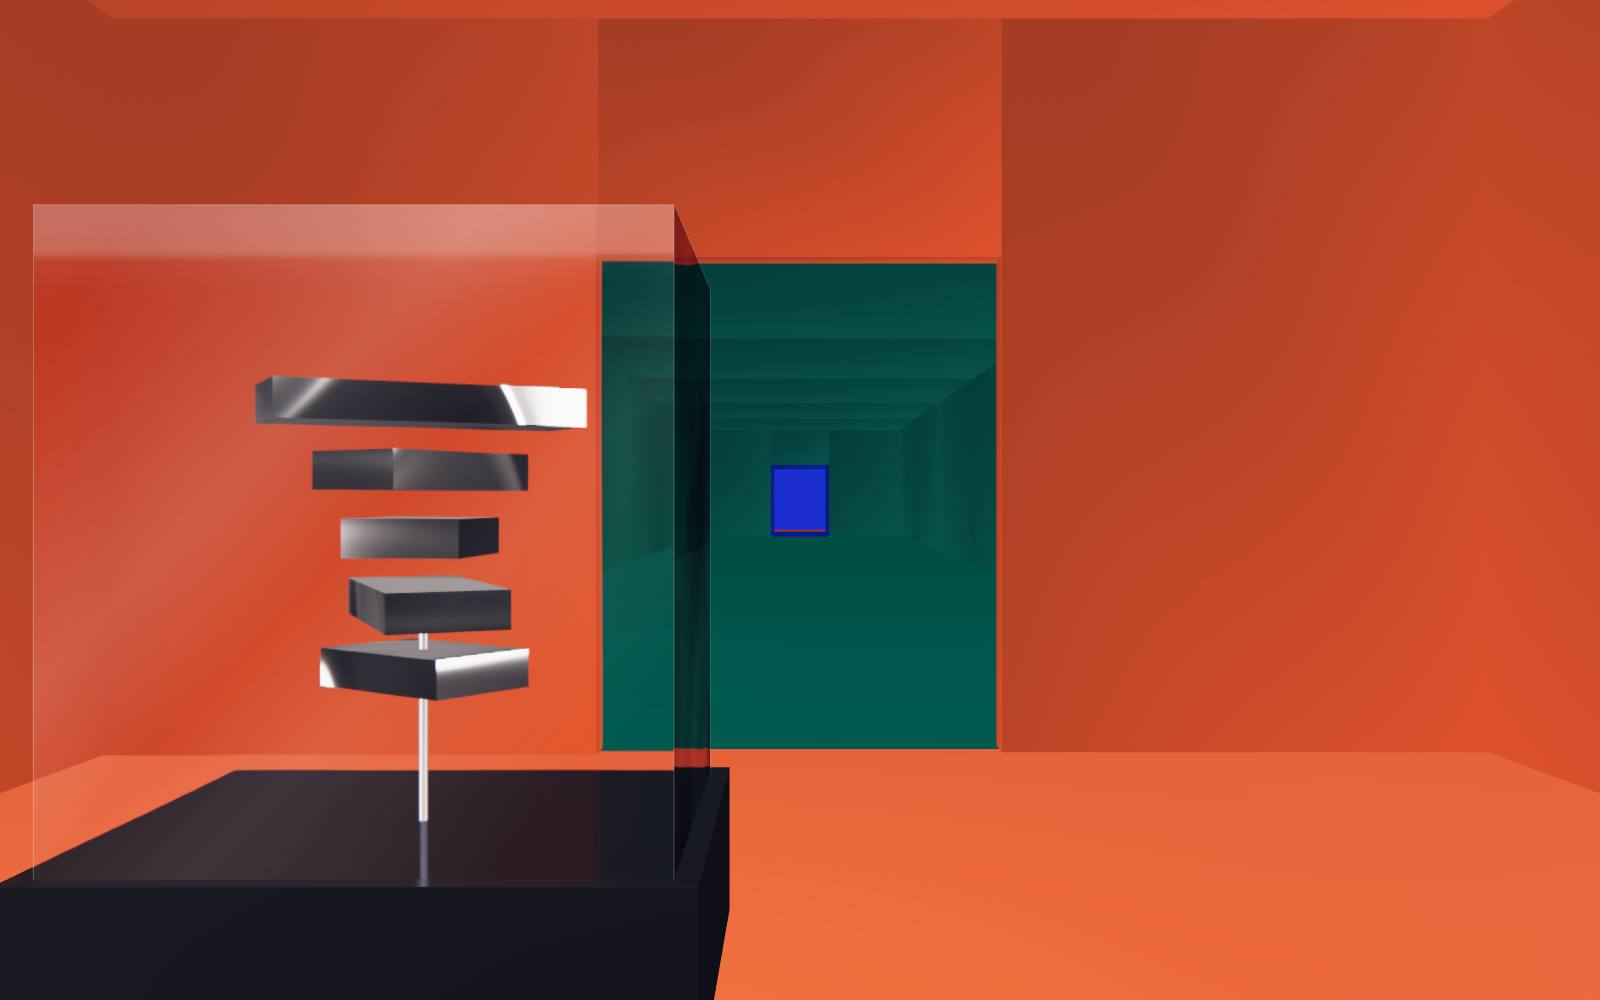
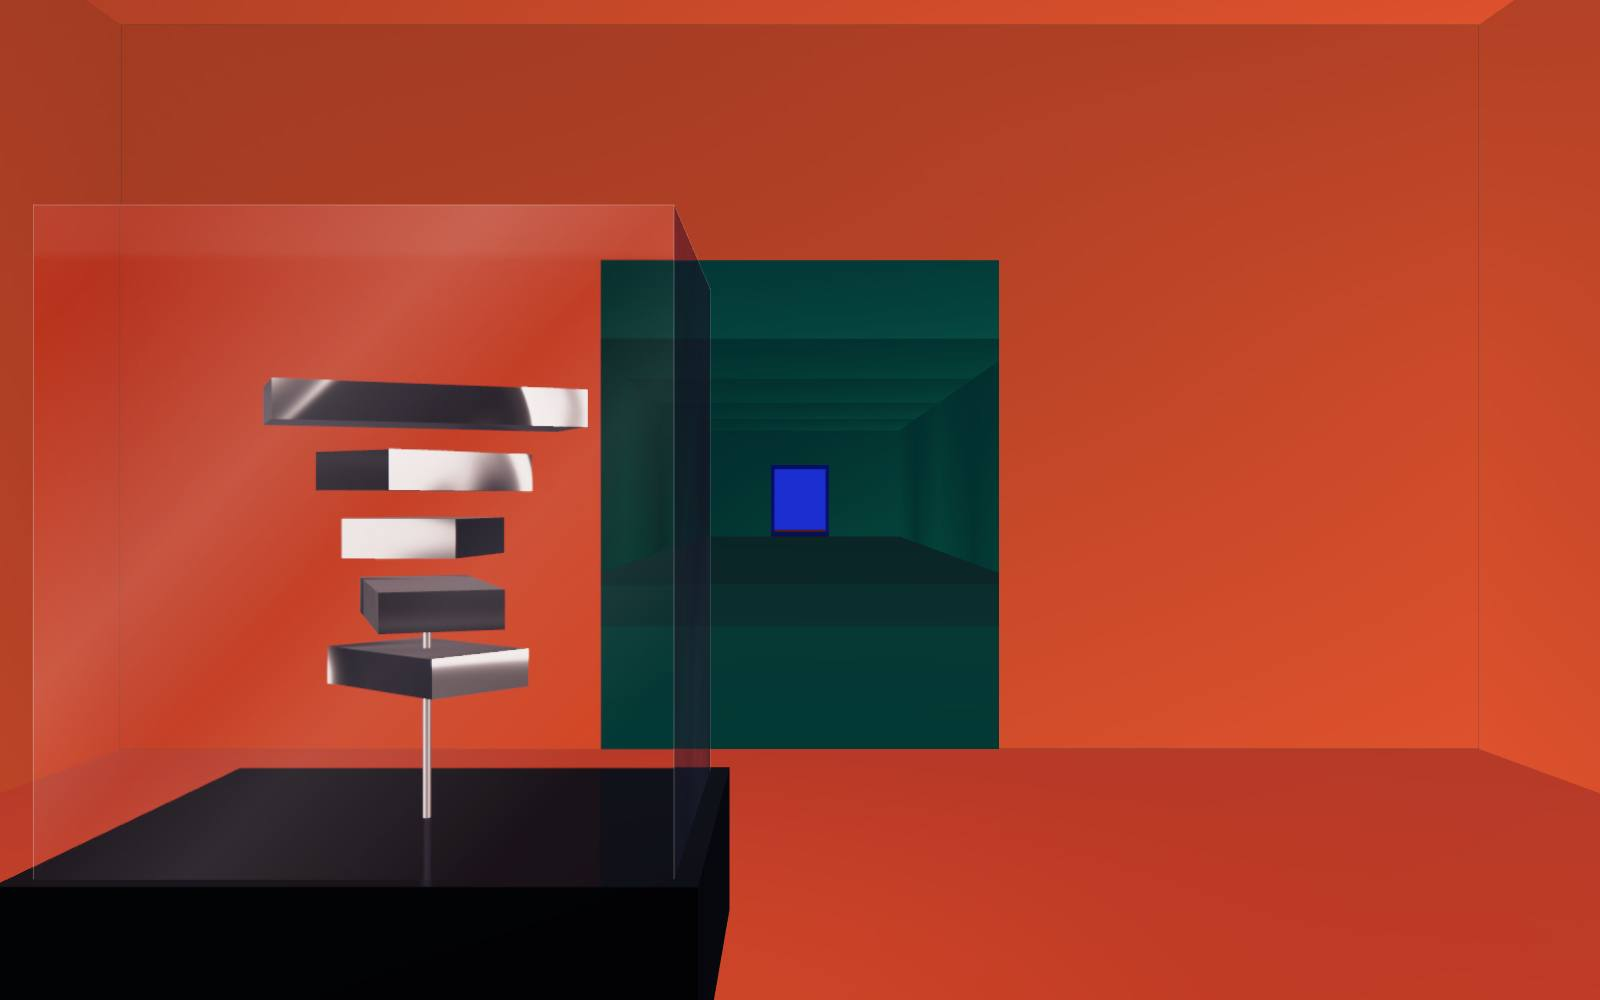
fix: refine gallery materials, fallbacks and sculpture details

diff --git a/components/gallery/gallery-canvas.tsx b/components/gallery/gallery-canvas.tsx
@@ -23,7 +23,20 @@ const DOOR_HEIGHT = 5.4;
 /** How bright a room is once the camera has left it: a glow, not a competitor. */
 const AWAY_LIGHT = 0.5;
 
-const roomLight = (distance: number) => THREE.MathUtils.lerp(1, AWAY_LIGHT, THREE.MathUtils.smoothstep(distance, 0.45, 1.1));
+const roomLight = (distance: number) =>
+  THREE.MathUtils.lerp(1, AWAY_LIGHT, THREE.MathUtils.smoothstep(distance, 0.45, 1.1)) * (distance > 1.1 ? Math.max(0.6, 1 - (distance - 1.1) * 0.22) : 1);
+
+/** One wall with the doorway cut out, so the wash runs unbroken around it. */
+function createDoorWall() {
+  const halfWidth = ROOM_WIDTH / 2;
+  const wall = new THREE.Shape();
+  wall.moveTo(-halfWidth, 0).lineTo(-DOOR_WIDTH / 2, 0).lineTo(-DOOR_WIDTH / 2, DOOR_HEIGHT).lineTo(DOOR_WIDTH / 2, DOOR_HEIGHT);
+  wall.lineTo(DOOR_WIDTH / 2, 0).lineTo(halfWidth, 0).lineTo(halfWidth, ROOM_HEIGHT).lineTo(-halfWidth, ROOM_HEIGHT).closePath();
+  const geometry = new THREE.ShapeGeometry(wall);
+  const uv = geometry.attributes.uv;
+  for (let i = 0; i < uv.count; i++) uv.setXY(i, uv.getX(i) / ROOM_WIDTH + 0.5, uv.getY(i) / ROOM_HEIGHT);
+  return geometry;
+}
 
 /** ShaderGradient renders off-screen, and its light washes every wall. */
 function useWallLight(enabled: boolean) {
@@ -94,7 +107,7 @@ function Walls({ wallLight, position }: { wallLight: THREE.Texture | null; posit
   });
 
   const doors = useMemo(() => stops.flatMap((stop, i) => (stops[i + 1] && stops[i + 1].room !== stop.room ? [i] : [])), []);
-  const pier = (ROOM_WIDTH - DOOR_WIDTH) / 2;
+  const doorWall = useMemo(createDoorWall, []);
 
   return (
     <group>
@@ -117,16 +130,7 @@ function Walls({ wallLight, position }: { wallLight: THREE.Texture | null; posit
       ))}
 
       {doors.map((i) => (
-        <group key={i} position={[0, 0, stopZ(i) - STOP_SPACING / 2]}>
-          {[-1, 1].map((side) => (
-            <mesh key={side} material={walls[i]} position={[side * (DOOR_WIDTH / 2 + pier / 2), ROOM_HEIGHT / 2, 0]}>
-              <boxGeometry args={[pier, ROOM_HEIGHT, 0.4]} />
-            </mesh>
-          ))}
-          <mesh material={walls[i]} position={[0, (ROOM_HEIGHT + DOOR_HEIGHT) / 2, 0]}>
-            <boxGeometry args={[DOOR_WIDTH, ROOM_HEIGHT - DOOR_HEIGHT, 0.4]} />
-          </mesh>
-        </group>
+        <mesh key={i} geometry={doorWall} material={walls[i]} position={[0, 0, stopZ(i) - STOP_SPACING / 2]} />
       ))}
 
       {/* The far wall, so the walk ends in a room. */}
@@ -159,7 +163,7 @@ function VitrineGlass({ size, full, sheen }: { size: [number, number, number]; f
       <mesh>
         <boxGeometry args={size} />
         {full ? (
-          <MeshTransmissionMaterial transmissionSampler thickness={0.35} roughness={0} ior={1.28} chromaticAberration={0.035} anisotropy={0.2} distortion={0.16} distortionScale={0.4} temporalDistortion={0.06} attenuationColor="#ffffff" color="#ffffff" />
+          <MeshTransmissionMaterial transmissionSampler thickness={0.1} roughness={0} ior={1.2} chromaticAberration={0.035} anisotropy={0.2} distortion={0.1} distortionScale={0.4} temporalDistortion={0.06} attenuationColor="#ffffff" color="#ffffff" />
         ) : (
           <meshPhysicalMaterial transparent opacity={0.1} roughness={0.05} metalness={0} color="#ffffff" depthWrite={false} />
         )}
@@ -180,10 +184,11 @@ type CaseProps = {
   position: { current: number };
   material: THREE.Material;
   sheen: THREE.Texture;
+  plinthMaterial: THREE.Material;
   caseX: { current: number[] };
 };
 
-function Case({ index, full, phone, position, material, sheen, caseX }: CaseProps) {
+function Case({ index, full, phone, position, material, sheen, plinthMaterial, caseX }: CaseProps) {
   const stop = stops[index];
   const width = useThree((state) => state.size.width);
   const height = useThree((state) => state.size.height);
@@ -209,12 +214,12 @@ function Case({ index, full, phone, position, material, sheen, caseX }: CaseProp
   const baseHeight = phone ? 1.6 : 0.95;
   const plinth: [number, number] = [(size[0] + 0.3) * fit, (size[2] + 0.3) * fit];
   const isName = stop.id === "top";
+  const rodHeight = isName ? 0.62 : size[1] / 2 - 0.4;
 
   return (
     <group position={[x, 0, stopZ(index)]} visible={state.near}>
-      <mesh position={[0, baseHeight / 2, 0]}>
+      <mesh material={plinthMaterial} position={[0, baseHeight / 2, 0]}>
         <boxGeometry args={[plinth[0], baseHeight, plinth[1]]} />
-        <meshStandardMaterial color="#14151c" roughness={0.3} metalness={0.2} />
       </mesh>
       {full && state.active ? (
         <mesh rotation={[-Math.PI / 2, 0, 0]} position={[0, baseHeight + 0.004, 0]}>
@@ -225,8 +230,8 @@ function Case({ index, full, phone, position, material, sheen, caseX }: CaseProp
       <group position={[0, baseHeight + (size[1] / 2) * fit, 0]} scale={fit}>
         {/* Mounting rods, so each sculpture stands rather than floats. */}
         {(isName ? [-1.7, 1.7] : [0]).map((rod) => (
-          <mesh key={rod} material={material} position={[rod, -size[1] / 4 - 0.2, 0]}>
-            <cylinderGeometry args={[0.03, 0.03, size[1] / 2 - 0.4, 12]} />
+          <mesh key={rod} material={material} position={[rod, -size[1] / 2 + rodHeight / 2, 0]}>
+            <cylinderGeometry args={[0.03, 0.03, rodHeight, 12]} />
           </mesh>
         ))}
         {state.near && (
@@ -248,6 +253,7 @@ function Scene({ tier, onFallback }: { tier: Tier; onFallback: () => void }) {
   const { camera, size, scene } = useThree();
   const material = useMemo(createLiquidMetal, []);
   const sheen = useMemo(createSheen, []);
+  const plinthMaterial = useMemo(() => new THREE.MeshStandardMaterial({ color: "#23252f", roughness: 0.24, metalness: 0.7, envMapIntensity: 0.5 }), []);
   // Under load the scene sheds effects one at a time, heaviest first, and only
   // drops to still images once there is nothing left to shed.
   const [shed, setShed] = useState(0);
@@ -261,7 +267,7 @@ function Scene({ tier, onFallback }: { tier: Tier; onFallback: () => void }) {
   const target = useMemo(() => new THREE.Object3D(), []);
   const glass = full && shed < 1;
   const white = useMemo(() => new THREE.Color("#ffffff"), []);
-  const tints = useMemo(() => stops.map((stop) => new THREE.Color("#ffffff").lerp(new THREE.Color(roomColors[stop.room]), 0.16)), []);
+  const tints = useMemo(() => stops.map((stop) => new THREE.Color("#ffffff").lerp(new THREE.Color(roomColors[stop.room]), 0.36)), []);
 
   useEffect(() => {
     const measure = () => {
@@ -295,7 +301,9 @@ function Scene({ tier, onFallback }: { tier: Tier; onFallback: () => void }) {
     // the studio lighting belongs to the metal alone. Glass and walls stay clean.
     if (scene.environment && !material.envMap) {
       material.envMap = scene.environment;
+      plinthMaterial.envMap = scene.environment;
       material.needsUpdate = true;
+      plinthMaterial.needsUpdate = true;
       scene.environment = null;
     }
 
@@ -338,16 +346,16 @@ function Scene({ tier, onFallback }: { tier: Tier; onFallback: () => void }) {
       <primitive object={target} />
       <spotLight ref={light} target={target} intensity={70} angle={0.62} penumbra={0.9} distance={18} color="#ffffff" />
       <Environment resolution={256} frames={1}>
-        <color attach="background" args={["#171925"]} />
-        <Lightformer form="rect" intensity={6} color="#ffffff" position={[0, 3.2, 8]} scale={[16, 3.4, 1]} />
-        <Lightformer form="rect" intensity={7} color="#ffffff" position={[0, 7, 1]} scale={[16, 7, 1]} rotation={[Math.PI / 2, 0, 0]} />
-        <Lightformer form="rect" intensity={3} color="#ffffff" position={[-7, 1, 3]} scale={[6, 10, 1]} rotation={[0, Math.PI / 2, 0]} />
-        <Lightformer form="rect" intensity={4} color="#ffffff" position={[7, 2, 3]} scale={[5, 10, 1]} rotation={[0, -Math.PI / 2, 0]} />
-        <Lightformer form="rect" intensity={2} color="#ffffff" position={[0, -6, 3]} scale={[16, 6, 1]} rotation={[-Math.PI / 2, 0, 0]} />
+        <color attach="background" args={["#2a2d3b"]} />
+        <Lightformer form="rect" intensity={2.4} color="#ffffff" position={[0, 3.2, 8]} scale={[16, 3.4, 1]} />
+        <Lightformer form="rect" intensity={3.4} color="#ffffff" position={[0, 7, 1]} scale={[16, 7, 1]} rotation={[Math.PI / 2, 0, 0]} />
+        <Lightformer form="rect" intensity={1.8} color="#ffffff" position={[-7, 1, 3]} scale={[6, 10, 1]} rotation={[0, Math.PI / 2, 0]} />
+        <Lightformer form="rect" intensity={2.2} color="#ffffff" position={[7, 2, 3]} scale={[5, 10, 1]} rotation={[0, -Math.PI / 2, 0]} />
+        <Lightformer form="rect" intensity={1.2} color="#ffffff" position={[0, -6, 3]} scale={[16, 6, 1]} rotation={[-Math.PI / 2, 0, 0]} />
       </Environment>
       <Walls wallLight={texture} position={position} />
       {stops.map((stop, index) => (
-        <Case key={stop.id} index={index} full={full && glass} phone={phone} position={position} material={material} sheen={sheen} caseX={caseX} />
+        <Case key={stop.id} index={index} full={full && glass} phone={phone} position={position} material={material} sheen={sheen} plinthMaterial={plinthMaterial} caseX={caseX} />
       ))}
     </>
   );

diff --git a/components/gallery/sculptures.tsx b/components/gallery/sculptures.tsx
@@ -19,9 +19,9 @@ type SculptureProps = { material: THREE.Material; active: boolean };
 const bevel = { bevelEnabled: true, bevelSize: 0.035, bevelThickness: 0.05, bevelSegments: 4, curveSegments: 10 };
 const extrude = (depth: number) => ({ depth, ...bevel });
 
-function Word({ material, text, size, depth = 0.24 }: { material: THREE.Material; text: string; size: number; depth?: number }) {
+function Word({ material, text, size, depth = 0.24, spacing = 0.07 }: { material: THREE.Material; text: string; size: number; depth?: number; spacing?: number }) {
   return (
-    <Text3D font={FONT} size={size} height={depth} letterSpacing={0.07} material={material} {...bevel}>
+    <Text3D font={FONT} size={size} height={depth} letterSpacing={spacing} material={material} {...bevel}>
       {text}
     </Text3D>
   );
@@ -117,12 +117,15 @@ function UncookedSculpture({ material, active }: SculptureProps) {
 
 function BookmarkSculpture({ material, active }: SculptureProps) {
   const geometry = useMemo(() => {
-    const ribbon = new THREE.Shape();
-    ribbon.moveTo(-0.72, 1.5).lineTo(0.72, 1.5).lineTo(0.72, -1.5).lineTo(0, -0.82).lineTo(-0.72, -1.5).closePath();
-    const built = new THREE.ExtrudeGeometry(ribbon, { ...extrude(0.14), steps: 1 });
+    // A finely divided sheet, so the swallowtail and the bend stay smooth.
+    const built = new THREE.BoxGeometry(1.44, 3, 0.14, 32, 64, 1);
     const position = built.attributes.position;
     for (let i = 0; i < position.count; i++) {
-      position.setZ(i, position.getZ(i) + Math.sin(position.getY(i) * 1.5) * 0.3 + position.getX(i) ** 2 * 0.22);
+      const x = position.getX(i);
+      const bottom = -1.5 + (1 - Math.abs(x) / 0.72) * 0.68;
+      const y = bottom + ((1.5 - bottom) * (position.getY(i) + 1.5)) / 3;
+      position.setY(i, y);
+      position.setZ(i, position.getZ(i) + Math.sin(y * 1.5) * 0.3 + x * x * 0.22);
     }
     built.computeVertexNormals();
     return built;
@@ -179,7 +182,7 @@ function NibSculpture({ material, active }: SculptureProps) {
     eye.absarc(0, 0.28, 0.17, 0, Math.PI * 2, true);
     nib.holes.push(eye);
     const slit = new THREE.Path();
-    slit.moveTo(-0.022, -1.28).lineTo(0.022, -1.28).lineTo(0.022, 0.12).lineTo(-0.022, 0.12).closePath();
+    slit.moveTo(-0.05, -1.2).lineTo(0.05, -1.2).lineTo(0.05, 0.12).lineTo(-0.05, 0.12).closePath();
     nib.holes.push(slit);
     return new THREE.ExtrudeGeometry(nib, extrude(0.2));
   }, []);
@@ -255,7 +258,7 @@ function GradeSculpture({ material, active }: SculptureProps) {
   return (
     <Spin active={active} speed={0.36} swing={0.42}>
       <Center>
-        <Word material={material} text="3.81" size={1.15} depth={0.5} />
+        <Word material={material} text="3.81" size={1.05} depth={0.34} spacing={0.14} />
       </Center>
     </Spin>
   );

diff --git a/app/globals.css b/app/globals.css
@@ -173,28 +173,33 @@ html[data-tier="still"] .gallery-stage {
 }
 html[data-tier="still"] .room {
   background: var(--room-color);
-  padding-top: 6rem;
-}
-html[data-tier="still"] .room-entrance {
-  min-height: 100svh;
 }
 html[data-tier="still"] .room-still {
   display: block;
+  position: absolute;
+  inset: 0;
+  overflow: clip;
+}
+html[data-tier="still"] .room-still::before {
+  content: "";
+  display: block;
   position: sticky;
   top: 0;
-  flex: none;
-  align-self: stretch;
   height: 100svh;
-  margin: -6rem calc(var(--gutter) * -1) -100svh;
-  margin-top: -6rem;
   background: var(--room-still) center / cover;
-}
-html[data-tier="still"] .room-still + .wall-label {
-  margin-top: 6rem;
 }
 @media (max-width: 767px) {
   html[data-tier="still"] .room-still {
-    background-position: 78% center;
+    inset: 3.5rem 0 auto;
+    height: calc(54svh - 3.5rem);
+  }
+  html[data-tier="still"] .room-entrance .room-still {
+    height: calc(42svh - 3.5rem);
+  }
+  html[data-tier="still"] .room-still::before {
+    position: static;
+    height: 100%;
+    background: var(--room-still-phone) center / cover;
   }
 }
 

diff --git a/components/about-section.tsx b/components/about-section.tsx
@@ -34,7 +34,7 @@ export function AboutSection() {
         <tbody>
           {achievements.map((item) => (
             <tr key={`${item.result}-${item.event}`} className="border-b border-rule align-baseline">
-              <td className="w-24 py-2.5 pr-3 font-semibold whitespace-nowrap [font-variant-numeric:tabular-nums]">{item.result}</td>
+              <td className="w-24 py-2.5 pr-3 font-semibold whitespace-nowrap">{item.result}</td>
               <td className="py-2.5 pr-3">
                 {item.href ? (
                   <a href={item.href} target="_blank" rel="noopener noreferrer" className="inline-flex items-center gap-1 underline decoration-ultramarine hover:text-ultramarine">

diff --git a/components/room.tsx b/components/room.tsx
@@ -18,7 +18,7 @@ export function Room({ stop, mark, size, className, children, ...props }: RoomPr
       data-label={entry.label}
       data-size={size}
       className={cn("room", className)}
-      style={{ "--room-color": roomColors[entry.room], "--room-still": `url(/rooms/${stop}.jpg)` } as CSSProperties}
+      style={{ "--room-color": roomColors[entry.room], "--room-still": `url(/rooms/${stop}.jpg)`, "--room-still-phone": `url(/rooms/phone-${stop}.jpg)` } as CSSProperties}
       {...props}
     >
       <div aria-hidden="true" className="room-still" />

diff --git a/components/gallery/liquid-metal.ts b/components/gallery/liquid-metal.ts
@@ -11,8 +11,8 @@ export function createLiquidMetal() {
   const material = new THREE.MeshStandardMaterial({
     color: "#f4f5f8",
     metalness: 1,
-    roughness: 0.11,
-    envMapIntensity: 1.25,
+    roughness: 0.14,
+    envMapIntensity: 1,
   });
 
   material.onBeforeCompile = (shader) => {
